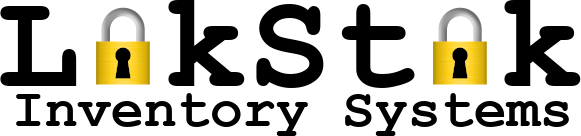
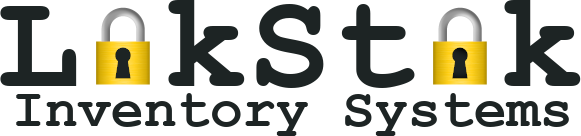
commit

diff --git a/client/src/components/ItemGet.js b/client/src/components/ItemGet.js
@@ -22,32 +22,35 @@ function ItemGet({}) {
   // imports currentEmployee state from HomePage
   const location = useLocation();
   const { logged_in } = location.state;
-
-  const [itemList, setItemList] = useState([]);
-  const [currentItem, setItem] = useState(null);
-
+  // list of jobs and items
   const [jobList, setJobList] = useState([]);
+  const [itemList, setItemList] = useState([]);
+  // selected job and selected item
   const [currentJob, setJob] = useState(null);
-
+  const [currentItem, setItem] = useState(null);
+  // Item cart
   const [itemCart, setItemCart] = useState([]);
-
+  // state when assignment has been completed
   const [assignedComplete, setAssignedComplete] = useState(false);
-
+  // items that have been assigned to a job
   const [itemsAssigned, setItemsAssigned] = useState([]);
-
-  const [itemsFailed, setItemsFailed] = useState([]);
+  // state if items have failed and which ones
   const [errorItemFailed, setErrorItemFailed] = useState(false);
-
+  const [errorList, setErrors] = useState([]);
+  // state whether scanner is displayed
   const [showQR, setShowQR] = useState(false);
+  // the QR scanner stores what it scans as result
+  const [result, setResult] = useState('No result');
 
+  
+  
+  // -- QR READER -- //
+  // This portion scrolls the view window down when scanner selected
   const qrScannerRef = useRef(null)
   const scrollToQrScanner = () => {
     qrScannerRef.current?.scrollIntoView( { behavior: "smooth" })
   }
 
-
-// -- QR READER -- //
-    const [result, setResult] = useState('No result');
       
     const handleClickQR = () => {
       setShowQR(!showQR)
@@ -72,7 +75,7 @@ function ItemGet({}) {
 // -- //
   
 
-
+// -- FETCH
   useEffect(() => {
     fetch("/jobs").then((res) => {
       if (res.ok) {
@@ -90,8 +93,9 @@ function ItemGet({}) {
       }
     });
   }, []);
+// -- //
 
-// -- JOB MENU
+// -- DROPDOWN JOB MENU
     const [anchorEl, setAnchorEl] = useState(null);
     const open = Boolean(anchorEl);
     const handleClick = (event) => {
@@ -112,7 +116,7 @@ function ItemGet({}) {
 // --
     
 
-// -- ITEM MENU
+// -- DROPDOWN ITEM MENU
     const [anchorItemEl, setAnchorItemEl] = useState(null);
     const itemOpen = Boolean(anchorItemEl);
     const handleItemClick = (event) => {
@@ -124,7 +128,7 @@ function ItemGet({}) {
       
       setItemsAssigned([]);
       setAssignedComplete(false);
-      setItemsFailed([]);
+      setErrors([]);
       setErrorItemFailed(false);
 
       // Prevents clicking outside menu from updating state
@@ -230,24 +234,20 @@ const handleSuccess = () => {
 const handleFailedItem = (error) => {
   console.log("Failed item: ", error.error);
   setErrorItemFailed(true);
-  setItemsFailed(error.error);
-  // setItemsFailed([
-  //   ...itemsFailed,
-  //   error
-  // ])
+  setErrors(error.error);
 }
 
 const displaySuccess = itemsAssigned.map((item) => {
   return <p key={item.id}>{item.part.description}<br/></p>
 })
 
-const renderFailedItems = itemsFailed.map((error) => {
+const renderFailedItems = errorList.map((error) => {
   return <p key={uuidv4()} className="error">Error: {error}</p>
 })
 
 // console.log("Assigned items: ", itemsAssigned)
 // console.log("errorItemFailed: ", errorItemFailed)
-// console.log("itemsFailed: ", itemsFailed)
+// console.log("errorList: ", errorList)
 
 console.log(currentItem)
 console.log("item cart: ", itemCart)

diff --git a/client/src/components/JobForm.js b/client/src/components/JobForm.js
@@ -69,15 +69,6 @@ function JobForm() {
     }
 }
 
-  // This won't navigate... why?
-  const goHome = () => {
-    console.log("Headed home")
-    navigate(`/home`);
-  }
-
-
-  console.log(formData)
-
   function handleSubmit(e) {
     e.preventDefault();
 
@@ -188,7 +179,7 @@ function JobForm() {
         {clientMenu}
       </Menu>
       {currentClient ? 
-        <h3> Client selected: {currentClient.name} </h3> :
+        <h3 className='selection-made'> Client selected: {currentClient.name} </h3> :
         <h3></h3>}
       <br/>
 

diff --git a/client/src/style/App.css b/client/src/style/App.css
@@ -46,6 +46,7 @@ html, .cursor {
 
 .Footer, .Header, .HomePage, .ItemGet, .JobForm, .JobPage, .Signup {
   text-align: center;
+  color: #1d2424;
 }
 
 .imgbox {
